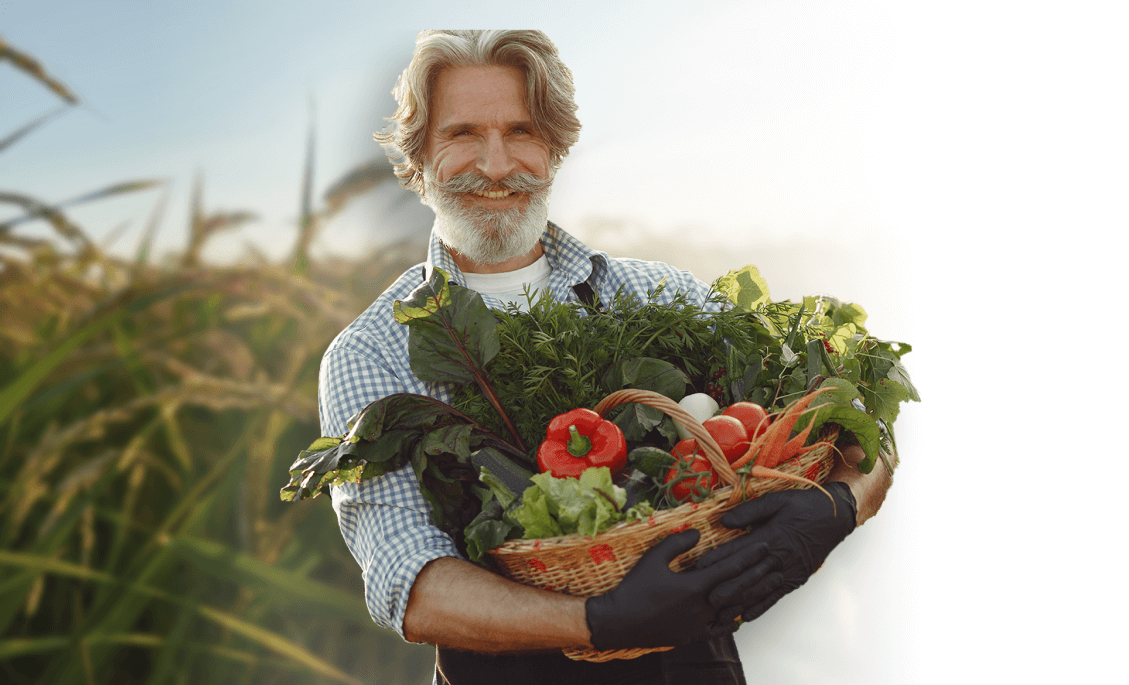
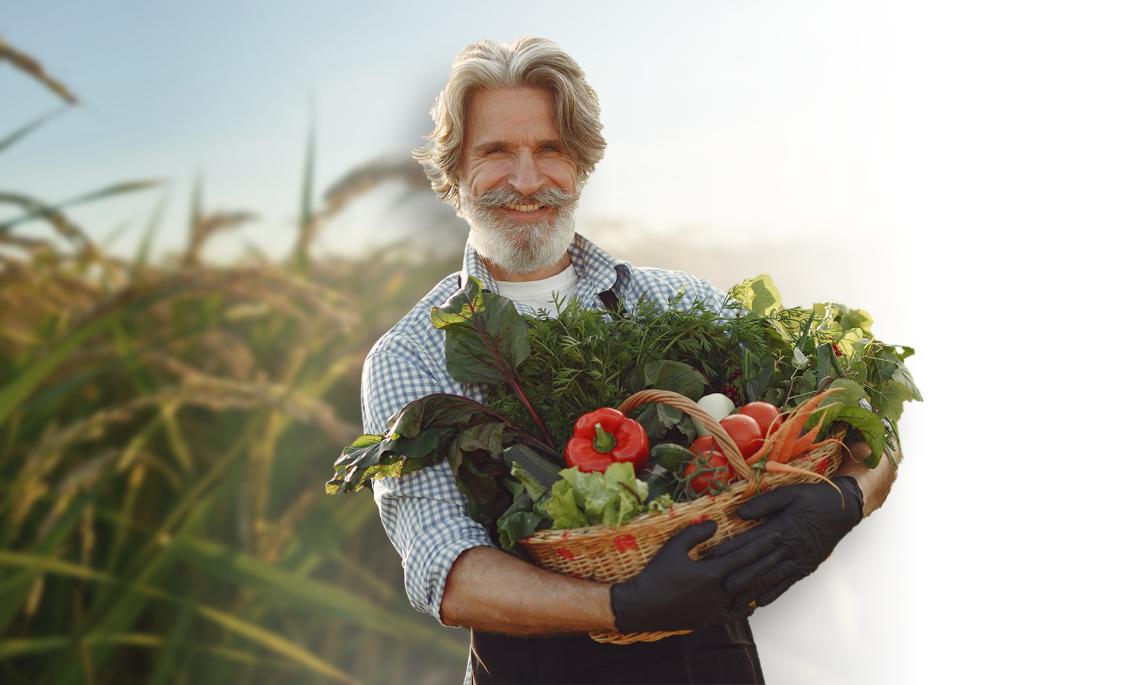
changed about page bg img, removed overlay from sales cards, added background color in shopping cart

Changed region(s): [[0.248, 0.0307, 0.837, 1.0], [0.651, 0.8277, 0.744, 1.0]]

diff --git a/dist/main.css b/dist/main.css
@@ -11548,6 +11548,9 @@ body.overlay {
   .popular-products__wrapper {
     display: grid;
     grid-template-columns: repeat(5, 1fr); }
+    .popular-products__wrapper-item {
+      border: none !important;
+      border-collapse: none !important; }
 
 .deals-products__wrapper {
   display: grid;
@@ -13765,6 +13768,8 @@ body.overlay {
       .footer__instagram-item .cards-ig__img {
         width: 69px;
         height: 69px; }
+  .footer--one .footer__brand-info-contact {
+    color: #808080; }
   .footer--two {
     background-color: #fff; }
     .footer--two .footer__brand-info-contact span {
@@ -14892,14 +14897,6 @@ body.overlay {
   .cards-ss__img-wrapper {
     position: relative;
     overflow: hidden; }
-    .cards-ss__img-wrapper::after {
-      content: '';
-      position: absolute;
-      top: 0;
-      left: 0;
-      width: 100%;
-      height: 100%;
-      background: linear-gradient(90.02deg, rgba(0, 0, 0, 0.7) 0.03%, rgba(0, 0, 0, 0) 91.31%); }
     .cards-ss__img-wrapper img {
       width: inherit;
       height: inherit;
@@ -15139,7 +15136,6 @@ body.overlay {
     margin: auto;
     margin-bottom: 14px;
     border-radius: 50%;
-    background-color: red;
     overflow: hidden;
     display: -webkit-box;
     display: -webkit-flex;
@@ -18596,14 +18592,16 @@ body.overlay {
             align-items: center;
     padding: 16px 20px;
     border-top: 1px solid #e5e5e5; }
-    .cart-table-action-btn button {
+    .cart-table-action-btn .button {
       background-color: #f2f2f2;
       color: #4d4d4d;
       font-weight: 600; }
       @media (max-width: 480px) {
-        .cart-table-action-btn button {
+        .cart-table-action-btn .button {
           font-size: 12px;
           padding: 14px; } }
+      .cart-table-action-btn .button:hover {
+        background-color: #e5e5e5; }
   .cart-table__share-content {
     padding: 24px 20px;
     border-top: 1px solid #e5e5e5; }

diff --git a/src/scss/components/_cards.scss b/src/scss/components/_cards.scss
@@ -589,19 +589,19 @@
   &__img-wrapper {
     position: relative;
     overflow: hidden;
-    &::after {
-      content: '';
-      position: absolute;
-      top: 0;
-      left: 0;
-      width: 100%;
-      height: 100%;
-      background: linear-gradient(
-        90.02deg,
-        rgba(0, 0, 0, 0.7) 0.03%,
-        rgba(0, 0, 0, 0) 91.31%
-      );
-    }
+    // &::after {
+    //   content: '';
+    //   position: absolute;
+    //   top: 0;
+    //   left: 0;
+    //   width: 100%;
+    //   height: 100%;
+    //   background: linear-gradient(
+    //     90.02deg,
+    //     rgba(0, 0, 0, 0.7) 0.03%,
+    //     rgba(0, 0, 0, 0) 91.31%
+    //   );
+    // }
     img {
       width: inherit;
       height: inherit;
@@ -967,7 +967,6 @@
     margin: auto;
     margin-bottom: 14px;
     border-radius: 50%;
-    background-color: red;
     overflow: hidden;
     display: flex;
     align-items: center;

diff --git a/src/scss/pages/_account.scss b/src/scss/pages/_account.scss
@@ -155,13 +155,16 @@
       align-items: center;
       padding: 16px 20px;
       border-top: 1px solid #e5e5e5;
-      button {
+      .button {
         background-color: color(gray-0);
         color: color(gray-7);
         font-weight: 600;
         @include max(480px) {
           font-size: 12px;
           padding: 14px;
+        }
+        &:hover {
+          background-color: color(gray-1);
         }
       }
     }

diff --git a/src/scss/layout/_products.scss b/src/scss/layout/_products.scss
@@ -17,6 +17,11 @@
   &__wrapper {
     display: grid;
     grid-template-columns: repeat(5, 1fr);
+
+    &-item {
+      border: none !important;
+      border-collapse: none !important;
+    }
   }
 }
 

diff --git a/src/scss/layout/_footer.scss b/src/scss/layout/_footer.scss
@@ -195,6 +195,14 @@
     }
   }
 
+  // Footer one
+
+  &--one {
+    .footer__brand-info-contact {
+      color: color(gray-5);
+    }
+  }
+
   // Footer two
   &--two {
     background-color: #fff;
